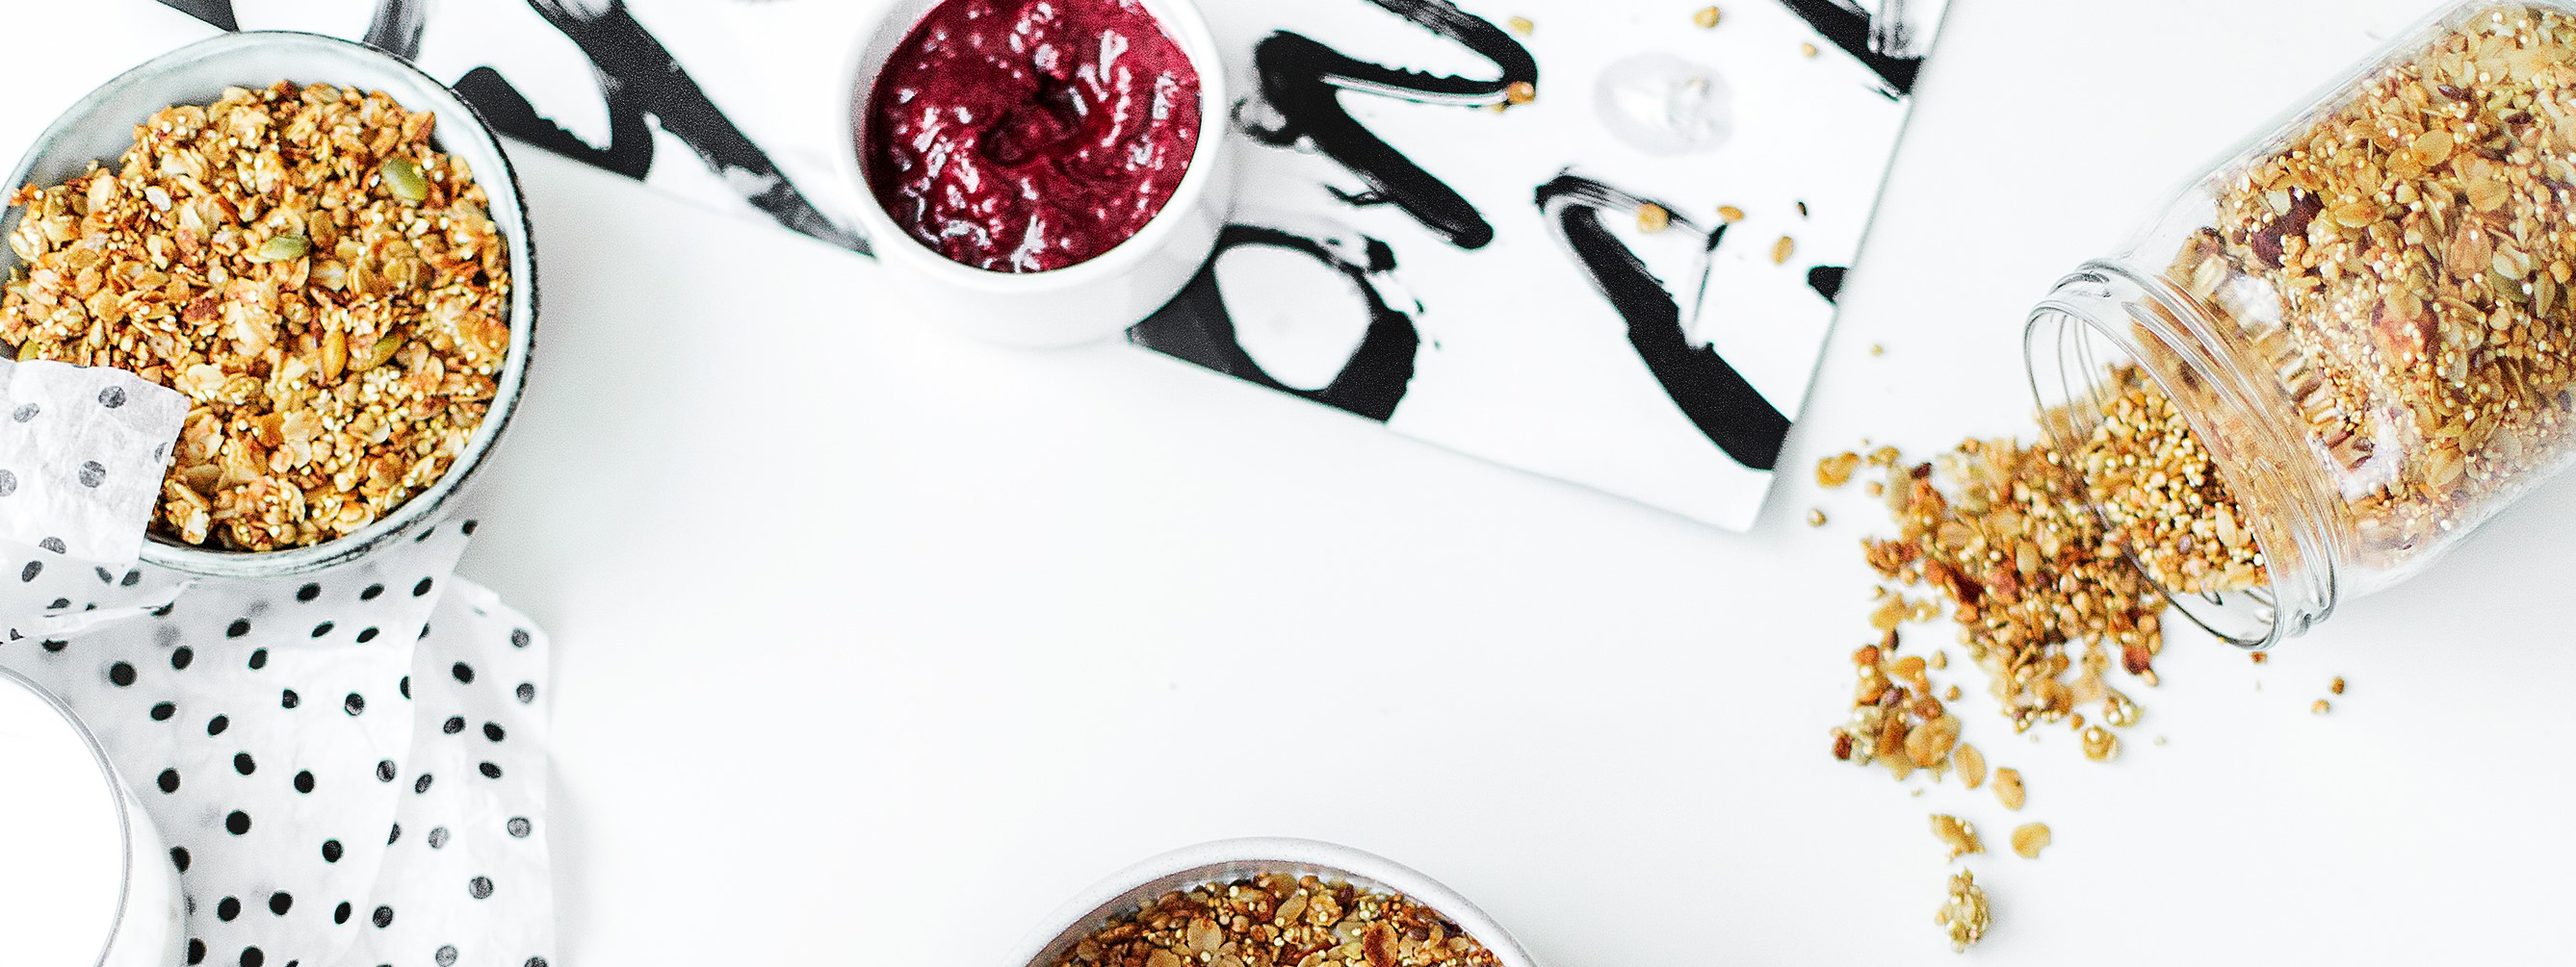
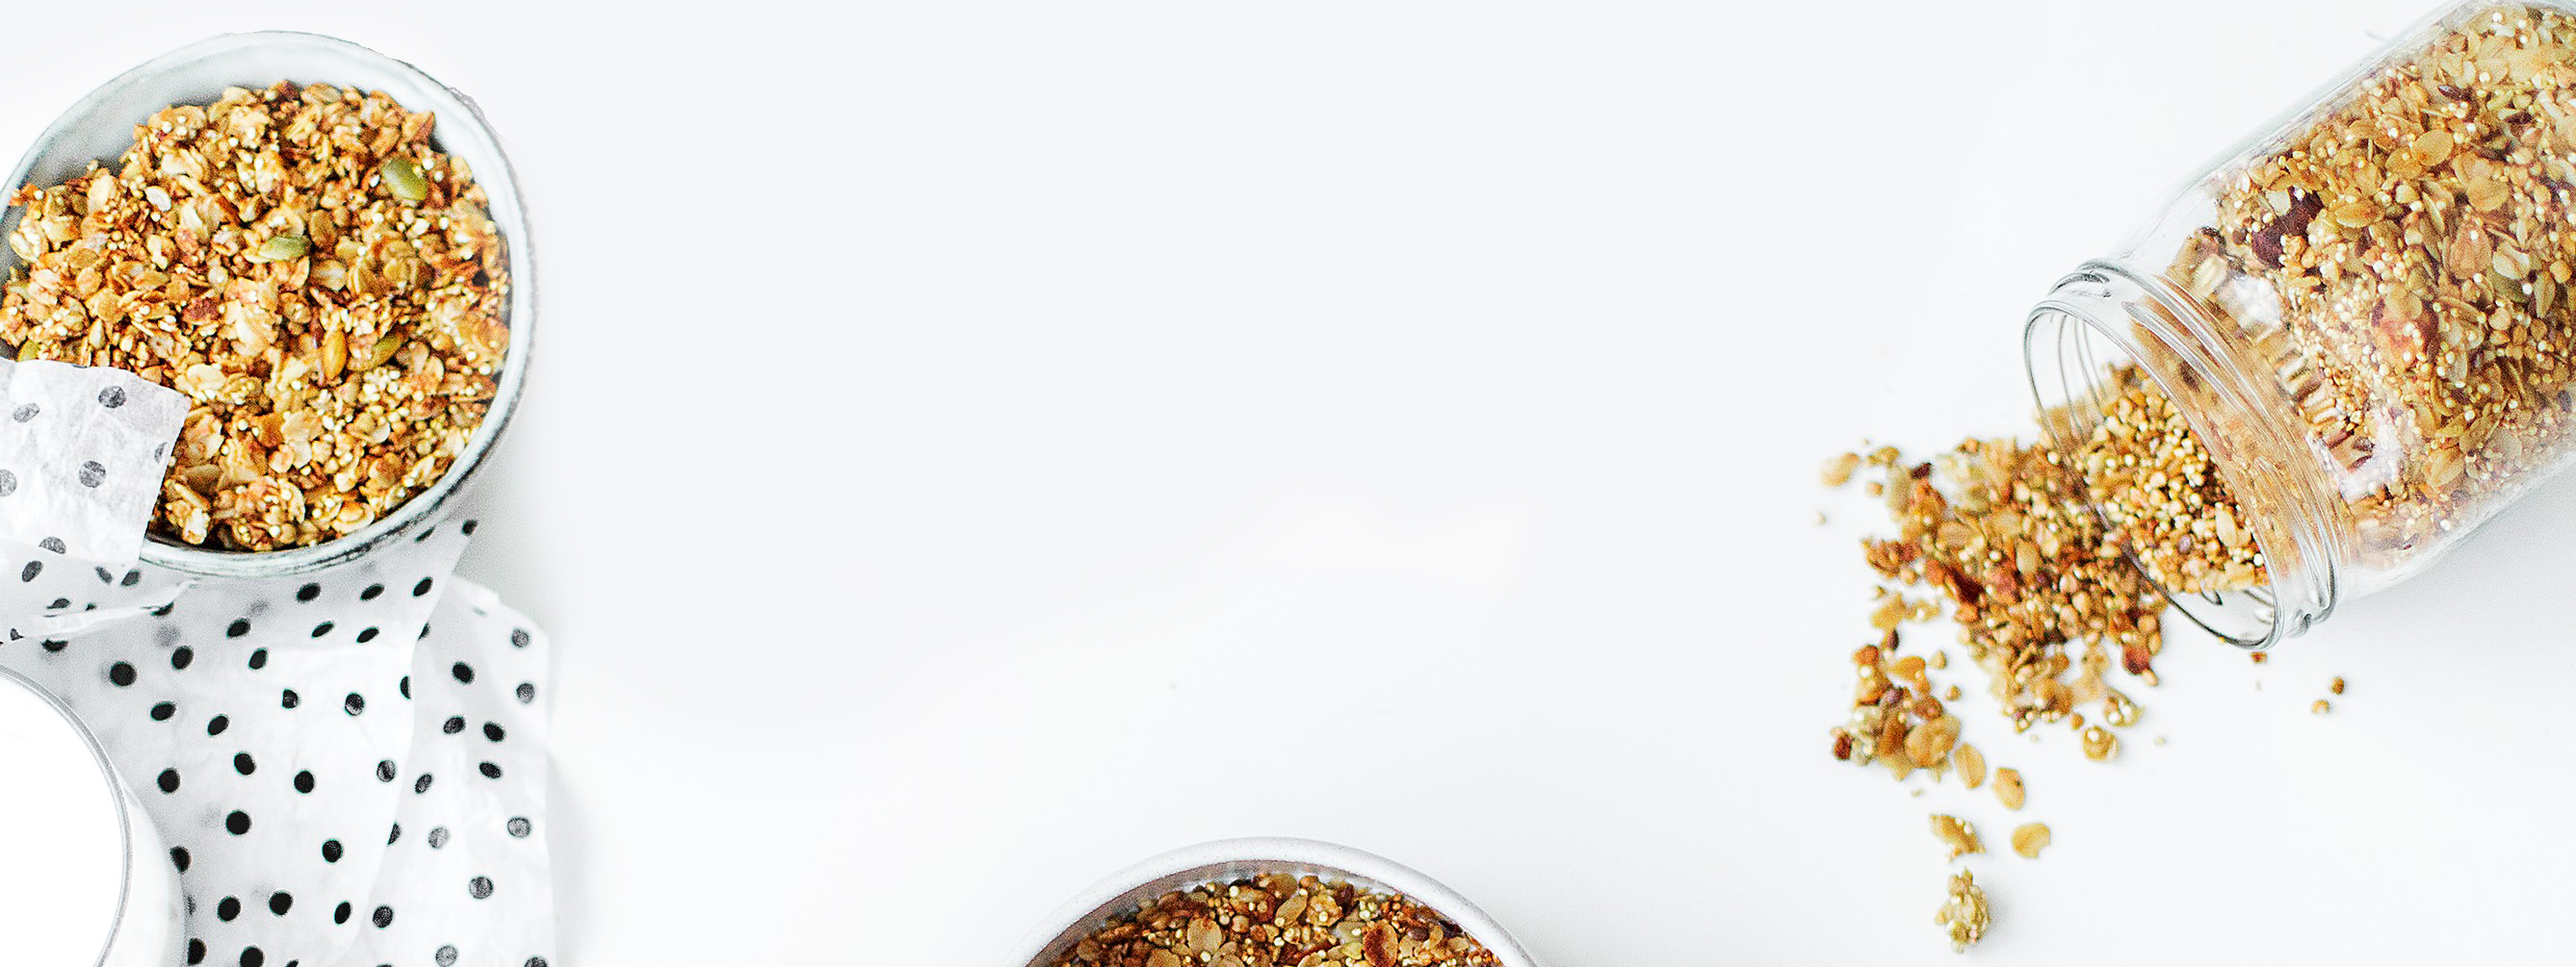
hero is finally done

Changed region(s): [[0.0931, 0.0, 0.7447, 0.5552], [0.6516, 0.0, 0.7757, 0.1234], [0.0621, 0.0, 0.0931, 0.0308]]

diff --git a/public/css/index.css b/public/css/index.css
@@ -18,18 +18,31 @@ body {
     min-height: calc(100% - 43px);
     width: 100%;
     position: relative;
-    background-image: url(../media/lightbg2.jpeg);
+    background-image: url(../media/lightbg.jpeg);
+    background-size: cover;
+    background-position: 50% 0px;
+    background-repeat: no-repeat;
+    background-color: #f5f6f8;
     z-index: 800;
     overflow: hidden;
-    background-size: cover;
-    background-position: bottom;
-
+}
+.bg-thumb {
+    position: absolute;
+}
+.slab {
+    left: 20;
+    bottom: -300;
+}
+.bowl {
+    right: calc(50% - 300px);
+    width: 600;
+    top: -400;
 }
 .heroBoxContainer {
     max-width: 800;
     margin: 0 auto;
     padding: 60;
-    margin-top: 40;
+    margin-top: 100;
     margin-bottom: 200;
 }
 .heroBox {
@@ -39,14 +52,34 @@ body {
 .hero-catchPhrase {
     padding: 20;
     font-family: Poppins;
-    font-size: 220%;
-    color: white;
-    font-size: 40;
+    color: black;
+    font-size: 90;
     font-weight: 700;
 }
+.anew {
+    font-size: 60%;
+    text-align: center;
+    background-image: url(../media/lightbg2.jpeg);
+    -webkit-background-clip: text;
+    -webkit-text-fill-color: transparent;
+    margin-bottom: -20;
+}
+.hero-catchPhrase span {
+     background-image: url(../media/lightbg2.jpeg);
+    -webkit-background-clip: text;
+    -webkit-text-fill-color: transparent;
+    color: #ff1744;
+    background-position: bottom;
+}
+.white-gradient {
+    
+}
 .phrase-sub {
-    color: #eee;
-    font-size: 70%;
+    background-image: url(../media/lightbg2.jpeg);
+    -webkit-background-clip: text;
+    -webkit-text-fill-color: transparent;
+    font-size: 40%;
+    text-align: center;
 }
 .enterLocation {
     height: 60;
@@ -73,6 +106,7 @@ body {
 }
 .location-input {
     padding-top: 8.4;
+    font-family: Poppins;
     width: calc(100% - 100px);
 }
 #enterLocation {
@@ -109,6 +143,7 @@ input[type=text] {
     position: fixed;
     width: 100%;
     background-color: white;
+    border-bottom: solid 1px #eee;
     z-index: 1000;
 }
 #loginButton {
@@ -482,8 +517,29 @@ input[type=text] {
         max-width: calc(100% - 320px)
     }
 }
-@media only screen and (max-width: 850px) {
-    
+
+@media only screen and (max-width: 820px) {
+    .hero-catchPhrase {
+        font-size: 70;
+        text-align: center;
+        padding-left: 0;
+        padding-right: 0;
+    }
+}
+@media only screen and (max-width: 520px) {
+    .hero-catchPhrase {
+        font-size: 12vw;
+        text-align: center;
+        padding-left: 0;
+        padding-right: 0;
+    }
+    .anew {
+        margin-bottom: -10;
+    }
+    .heroBox {
+        padding-right: 40;
+    }
+   
 }
 @media only screen and (max-width: 650px) {
     .grid-row {
@@ -540,7 +596,10 @@ input[type=text] {
     .right-corner-red {
         display: none;
     }
-    .hero-catchPhrase {
-        font-size: 37;
+    .bowl {
+        width: 500;
+        right: calc(50% - 240px);
+        top: -340;
     }
+
 }

diff --git a/public/index.html b/public/index.html
@@ -36,7 +36,7 @@
     <!--Main Wrapper holds all the non-overlay contents-->
     <main>
         <!--Divide our main section into 3 parts-->
-        <div class="z-depth-2 nav-top">
+        <div class="nav-top">
             <div class="title red-text accent-3 ">TASTERY</div>
             <a data-activates="navigationBar" id="menuButton" class="waves-effect waves btn"><span class="material-icons">menu</span></a>
             <a data-to="login.html" id="loginButton" class="link loginbtn waves-effect waves-light btn">Sign In</a>
@@ -62,7 +62,7 @@
             <div class="heroBoxContainer">
                 <div id="heroBox" class="heroBox">
                     <div class="hero-catchPhrase">
-                        <div>A new type of marketplace.</div>
+                        <div><div class="anew">A new type of</div><span>Marketplace</span></div>
                         <div class="phrase-sub">Join the food revolution today.</div>
                     </div>
                     <div class="z-depth-3 red accent-3 enterLocation">
@@ -74,7 +74,7 @@
                         <div class="waves-effect location-submit"><i class="check-icon material-icons">check</i></div>
                     </div>
                 </div>
-
+                <img class="bg-thumb bowl" src="media/bg-pngs/bowl.png">
             </div>
         </div>
         <!--About Section-->
